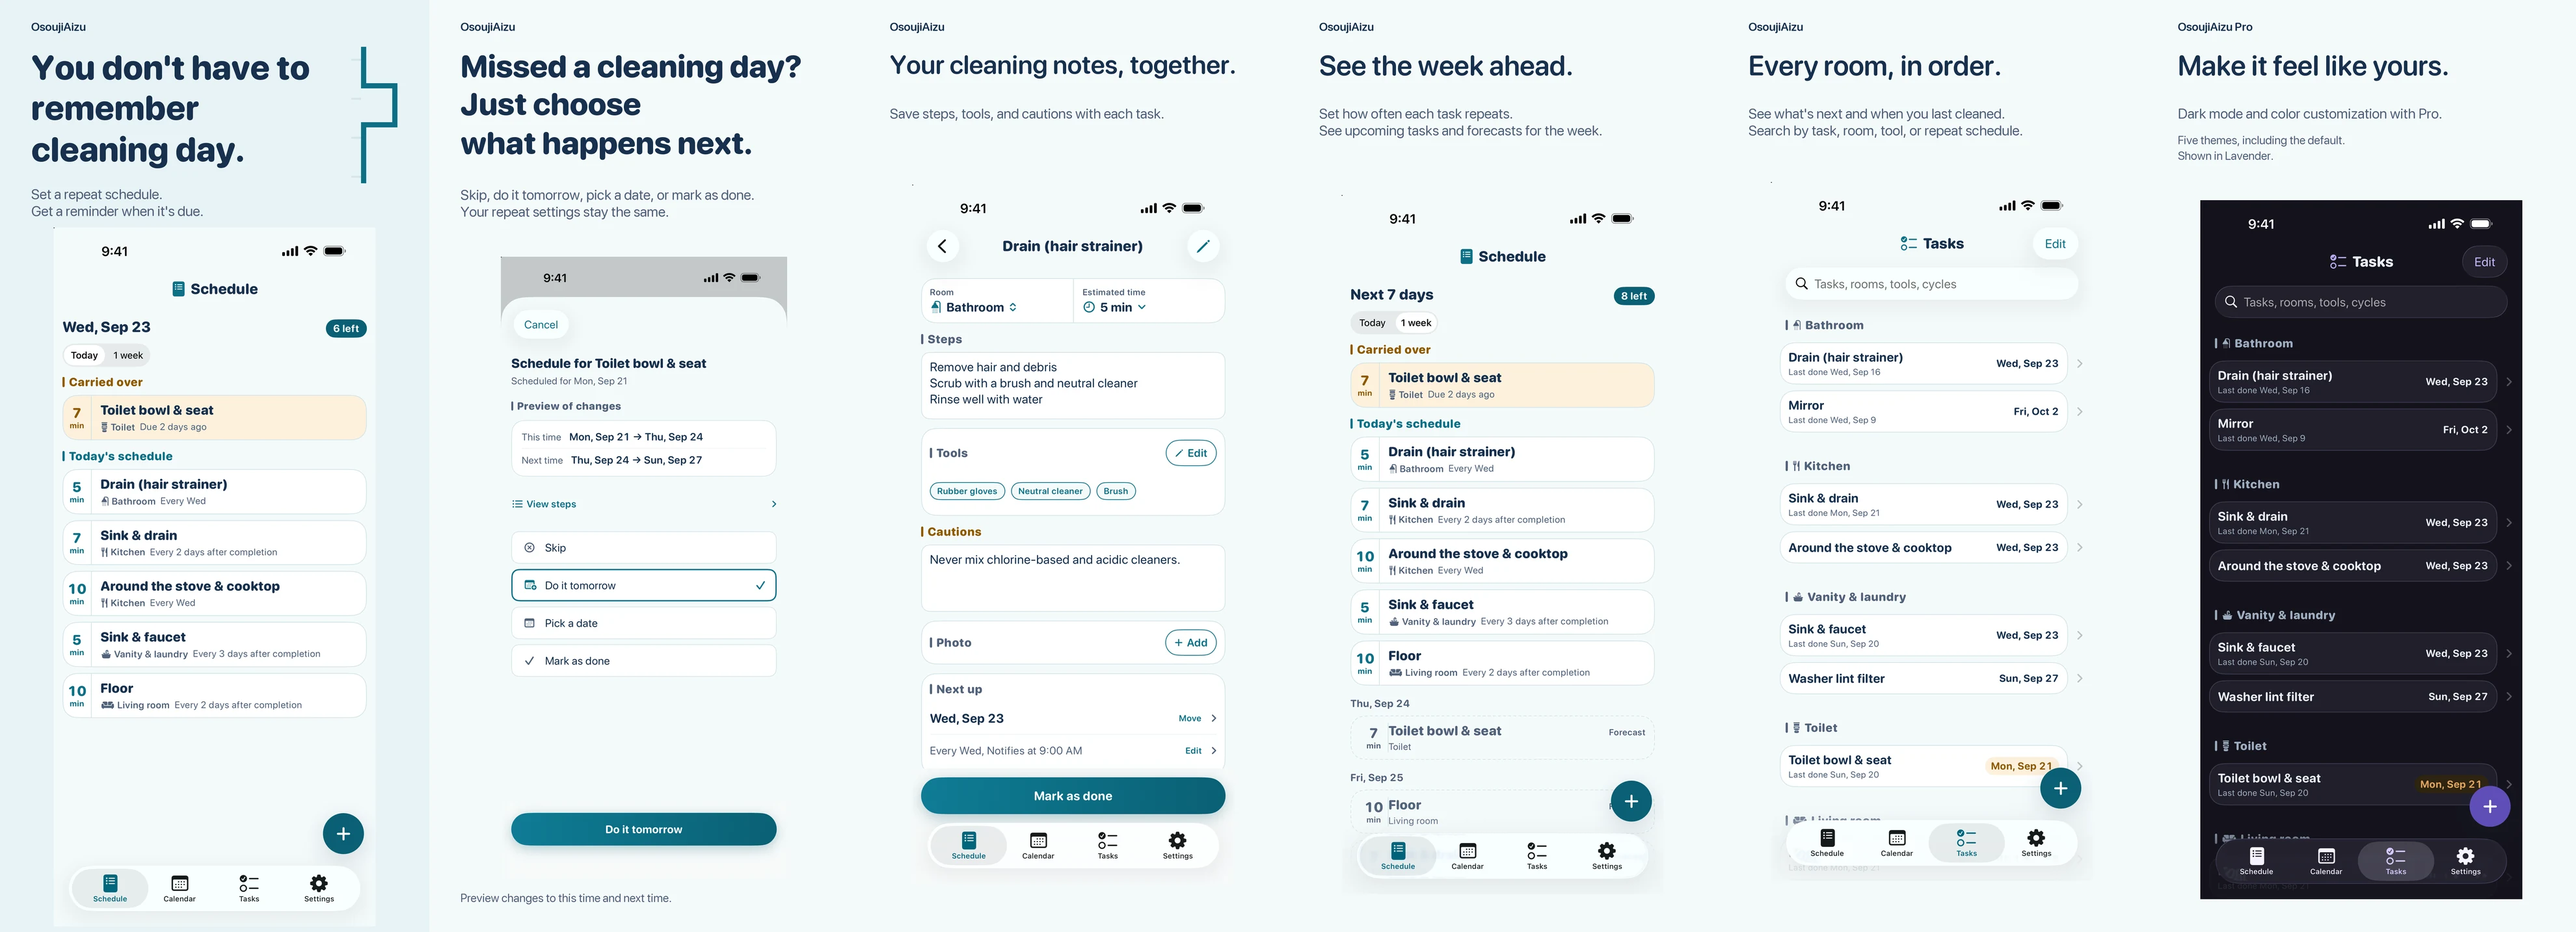
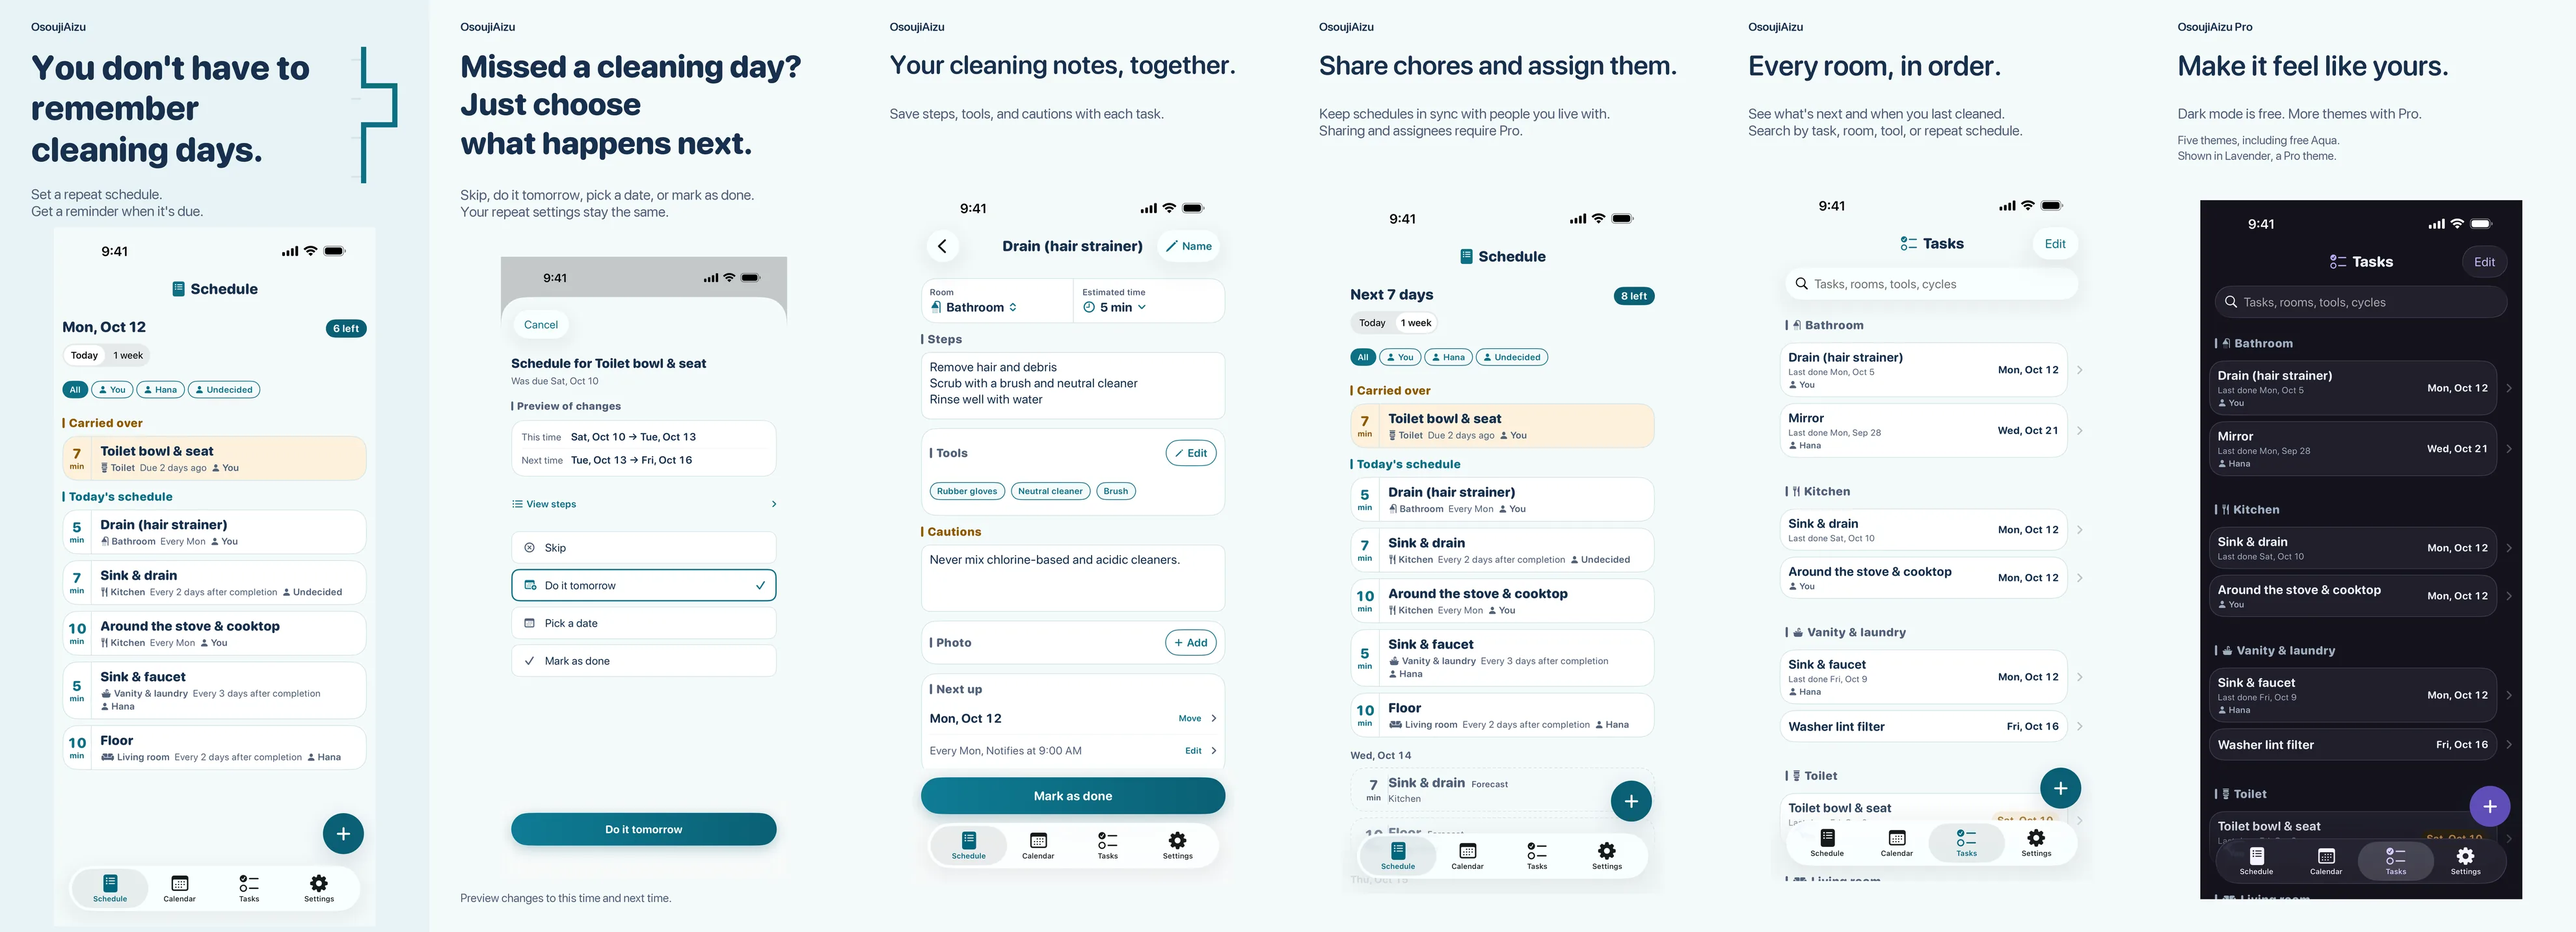
おそうじ合図: LP の画面画像を最新の訴求画像（担当者・ダーク無料）に差し替え
Claude-Session: https://claude.ai/code/session_01PgRLpeXq7Vs81cCuAfzhoT

diff --git a/osoujiaizu/index.html b/osoujiaizu/index.html
@@ -309,13 +309,13 @@
   <section class="shots" aria-label="アプリの画面">
     <div class="wrap">
       <figure class="shot">
-        <p class="sr-only">アプリの6画面。1. 予定「その日にやる掃除が、残り件数と所要時間つきで並ぶ」2. 予定を選び直す「できなかった日はスキップ・明日・日付選択・完了の4択。周期は変わらない」3. タスクの詳細「手順・使う道具・注意点をタスクに持てる」4. 1週間「先の予定と予測をまとめて見る」5. 部屋ごとのタスク「前回と次回が部屋別に並び、道具や周期でも検索できる」6. ダークとテーマ配色「Proで見た目を変えられる」</p>
+        <p class="sr-only">アプリの6画面。1. 予定「その日にやる掃除が、残り件数と所要時間つきで並ぶ」2. 予定を選び直す「できなかった日はスキップ・明日・日付選択・完了の4択。周期は変わらない」3. タスクの詳細「手順・使う道具・注意点をタスクに持てる」4. 共有と担当「一緒に暮らす人と予定をそろえて分担。共有と担当の割り振りはPro」5. 部屋ごとのタスク「前回と次回が部屋別に並び、道具や周期でも検索できる」6. ダークとテーマ配色「ダークは無料。追加の配色はPro」</p>
         <div class="shot-frame">
           <div class="shot-track">
             <button type="button" class="shot-slide" style="--i:0" aria-label="予定の画面を拡大（1/6）"><img src="./app-image.webp" alt="" decoding="async"></button>
             <button type="button" class="shot-slide" style="--i:1" aria-label="予定を選び直すの画面を拡大（2/6）"><img src="./app-image.webp" alt="" decoding="async"></button>
             <button type="button" class="shot-slide" style="--i:2" aria-label="タスクの詳細の画面を拡大（3/6）"><img src="./app-image.webp" alt="" decoding="async"></button>
-            <button type="button" class="shot-slide" style="--i:3" aria-label="1週間の画面を拡大（4/6）"><img src="./app-image.webp" alt="" decoding="async"></button>
+            <button type="button" class="shot-slide" style="--i:3" aria-label="共有と担当の画面を拡大（4/6）"><img src="./app-image.webp" alt="" decoding="async"></button>
             <button type="button" class="shot-slide" style="--i:4" aria-label="部屋ごとのタスクの画面を拡大（5/6）"><img src="./app-image.webp" alt="" decoding="async"></button>
             <button type="button" class="shot-slide" style="--i:5" aria-label="ダークとテーマ配色の画面を拡大（6/6）"><img src="./app-image.webp" alt="" decoding="async"></button>
           </div>

diff --git a/osoujiaizu/en/index.html b/osoujiaizu/en/index.html
@@ -305,13 +305,13 @@
   <section class="shots" aria-label="App screens">
     <div class="wrap">
       <figure class="shot">
-        <p class="sr-only">Six app screens. 1. Schedule "What to clean today, with the number left and a time estimate." 2. Change schedule "Missed it? Skip, do it tomorrow, pick a date, or mark as done. The repeat schedule stays." 3. Task detail "Keep steps, tools, and cautions with the task." 4. The week "See upcoming tasks and forecasts together." 5. Tasks by room "Last and next time, grouped by room, searchable by tool or schedule." 6. Dark mode and themes "Change how it looks with Pro."</p>
+        <p class="sr-only">Six app screens. 1. Schedule "What to clean today, with the number left and a time estimate." 2. Change schedule "Missed it? Skip, do it tomorrow, pick a date, or mark as done. The repeat schedule stays." 3. Task detail "Keep steps, tools, and cautions with the task." 4. Sharing and assignees "Keep schedules in sync with people you live with. Sharing and assignees require Pro." 5. Tasks by room "Last and next time, grouped by room, searchable by tool or schedule." 6. Dark mode and themes "Dark mode is free. More themes with Pro."</p>
         <div class="shot-frame">
           <div class="shot-track">
             <button type="button" class="shot-slide" style="--i:0" aria-label="Enlarge the Schedule screen (1 of 6)"><img src="../app-image-en.webp" alt="" decoding="async"></button>
             <button type="button" class="shot-slide" style="--i:1" aria-label="Enlarge the Change schedule screen (2 of 6)"><img src="../app-image-en.webp" alt="" decoding="async"></button>
             <button type="button" class="shot-slide" style="--i:2" aria-label="Enlarge the Task detail screen (3 of 6)"><img src="../app-image-en.webp" alt="" decoding="async"></button>
-            <button type="button" class="shot-slide" style="--i:3" aria-label="Enlarge the week screen (4 of 6)"><img src="../app-image-en.webp" alt="" decoding="async"></button>
+            <button type="button" class="shot-slide" style="--i:3" aria-label="Enlarge the Sharing and assignees screen (4 of 6)"><img src="../app-image-en.webp" alt="" decoding="async"></button>
             <button type="button" class="shot-slide" style="--i:4" aria-label="Enlarge the Tasks by room screen (5 of 6)"><img src="../app-image-en.webp" alt="" decoding="async"></button>
             <button type="button" class="shot-slide" style="--i:5" aria-label="Enlarge the Dark mode and themes screen (6 of 6)"><img src="../app-image-en.webp" alt="" decoding="async"></button>
           </div>
